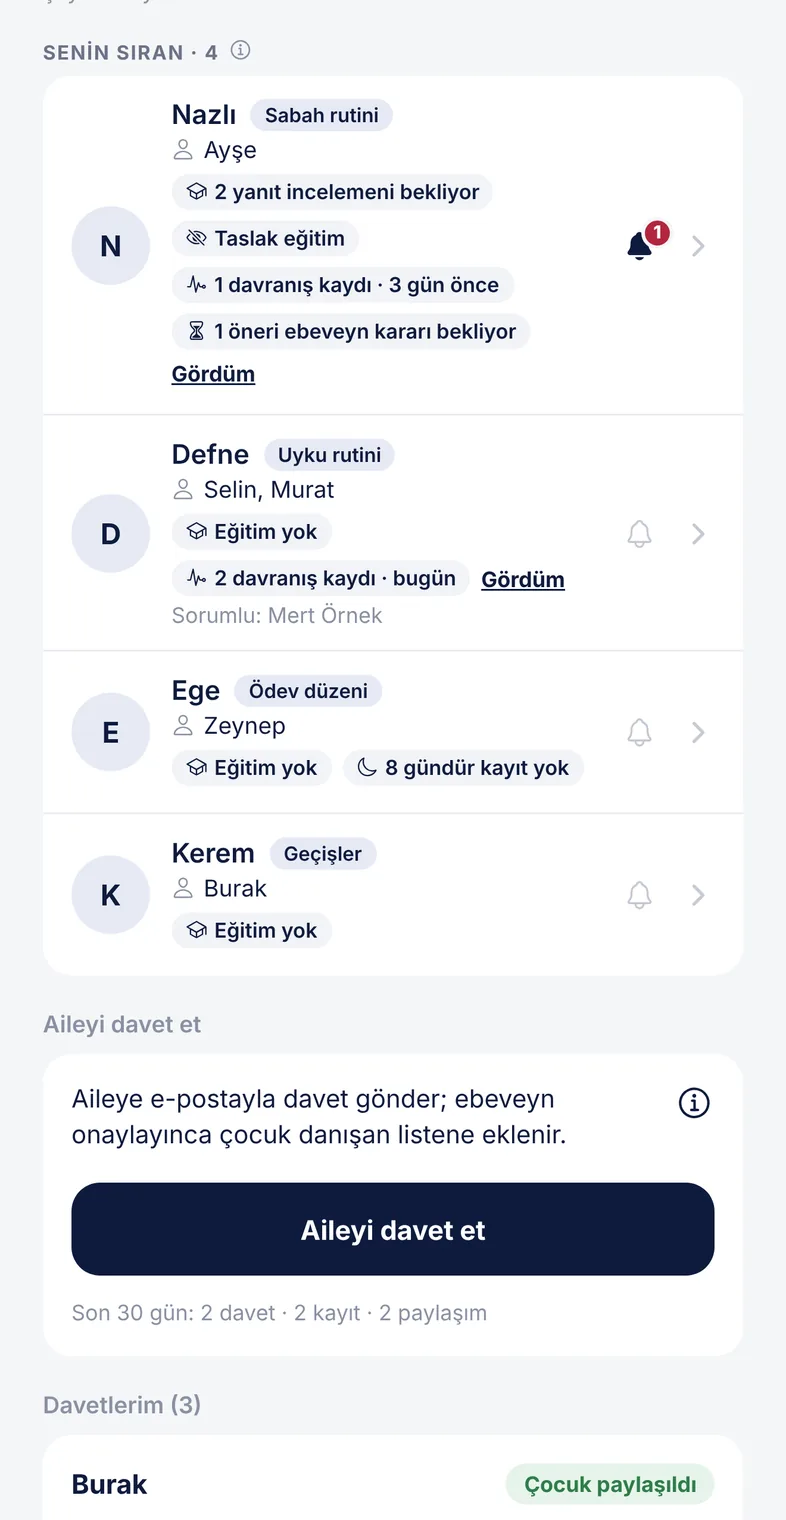
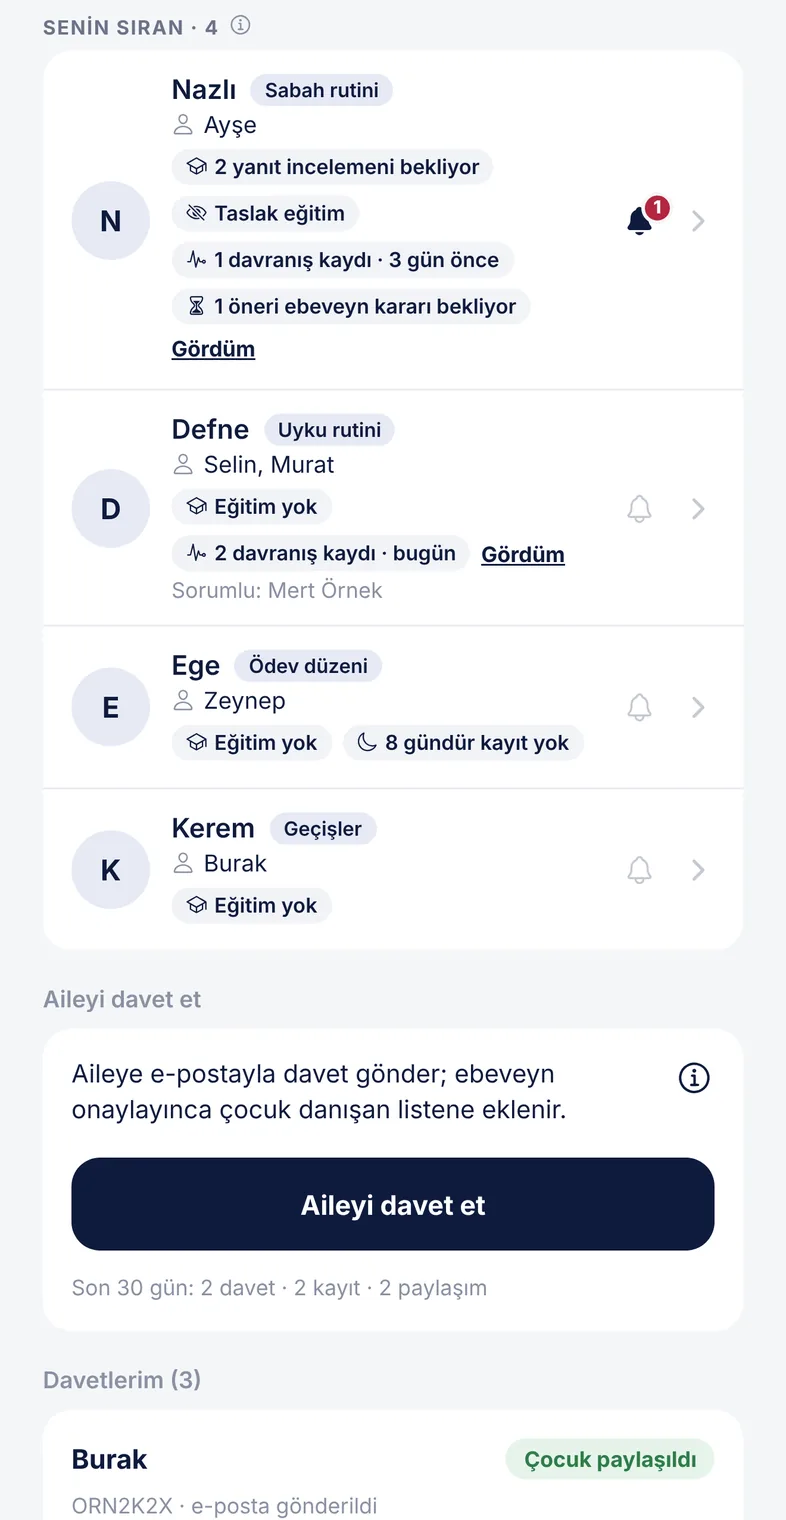
Tanıtım alternatifleri: pano görseli kesimi ve alt metni
Claude-Session: https://claude.ai/code/session_019nMNCPWbcyhtVPDLn2Y1Zs

diff --git a/tools/landing-alt/board-shot.js b/tools/landing-alt/board-shot.js
@@ -12,7 +12,7 @@ const { open } = require('../store-shots/lib');
       const el = [...document.querySelectorAll('div')].filter((d) => !d.childElementCount && /^Senin sıran/.test(d.textContent.trim()))[0];
       let c = el.parentElement;
       while (c) { const st = getComputedStyle(c); if ((st.overflowY === 'auto' || st.overflowY === 'scroll') && c.scrollHeight > c.clientHeight) break; c = c.parentElement; }
-      if (c) c.scrollTop += el.getBoundingClientRect().top - c.getBoundingClientRect().top - 30;
+      if (c) c.scrollTop += el.getBoundingClientRect().top - c.getBoundingClientRect().top - 16;
     });
     await p.waitForTimeout(700);
     const box = await p.evaluate(() => {
@@ -21,7 +21,7 @@ const { open } = require('../store-shots/lib');
       const r = c.getBoundingClientRect(), t = el.getBoundingClientRect();
       return { x: r.left, w: r.width, y: t.top, vw: innerWidth, vh: innerHeight };
     });
-    const w = Math.min(box.w + 32, box.vw), x = Math.max(0, box.x - 16), y = Math.max(0, box.y - 22), h = Math.min(w / ratio, box.vh - y);
+    const w = Math.min(box.w + 32, box.vw), x = Math.max(0, box.x - 16), y = Math.max(0, box.y - 8), h = Math.min(w / ratio, box.vh - y);
     await p.screenshot({ path: path.join(__dirname, 'assets', `board-${name}.png`), clip: { x, y, width: w, height: h } });
     console.log(dev, JSON.stringify({ x, y, w, h: Math.round(h) }), 'hata:', p.errors.length);
     await b.close();

diff --git a/tools/landing-alt/build.py b/tools/landing-alt/build.py
@@ -40,7 +40,7 @@ VIS = [
     {'kind': 'ui', 'key': 's4', 'bar': 'ClinicApp · Ebeveyn Eğitimi', 'alt': 'Gözlem verisi grafiği: haftalar içinde ölçüte doğru yükselen çizgi, üstte üç özet kartı.'},
     {'kind': 'game', 'key': 's5', 'bar': 'Çocuğun oyunu', 'alt': ''},
     # pano: çok danışanlı uydurma veriyle güncel etiketler (board-shot.js)
-    {'kind': 'ui', 'key': 'board', 'bar': 'ClinicApp · Danışanlar', 'alt': 'Danışan panosu: Senin sıran, Ebeveynden yeni ve Sessiz kalanlar bölümleri.'},
+    {'kind': 'ui', 'key': 'board', 'bar': 'ClinicApp · Danışanlar', 'alt': 'Danışan panosu: Senin sıran bölümünde danışanlar ve her birinde bekleyen iş.'},
 ]
 HERO = {'kind': 'ui', 'key': 'hero', 'bar': 'ClinicApp · Ebeveyn Eğitimi', 'alt': 'Bir danışanın Ebeveyn Eğitimi özeti: Öğrenme modülleri, Uygulama görevleri, Hızlı yapılacaklar kartları ve gözlem grafiği.'}
 
